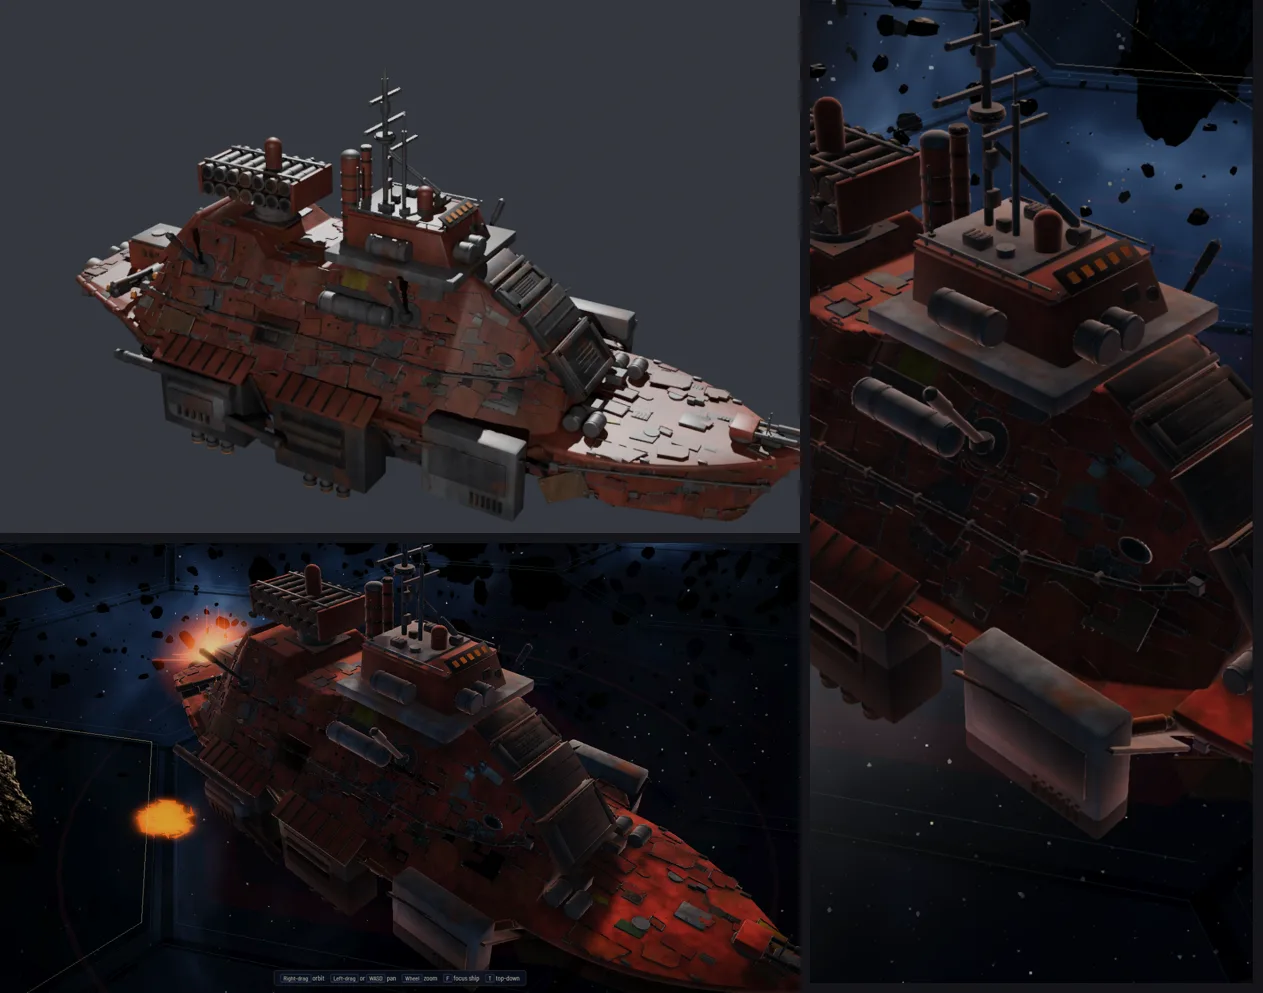
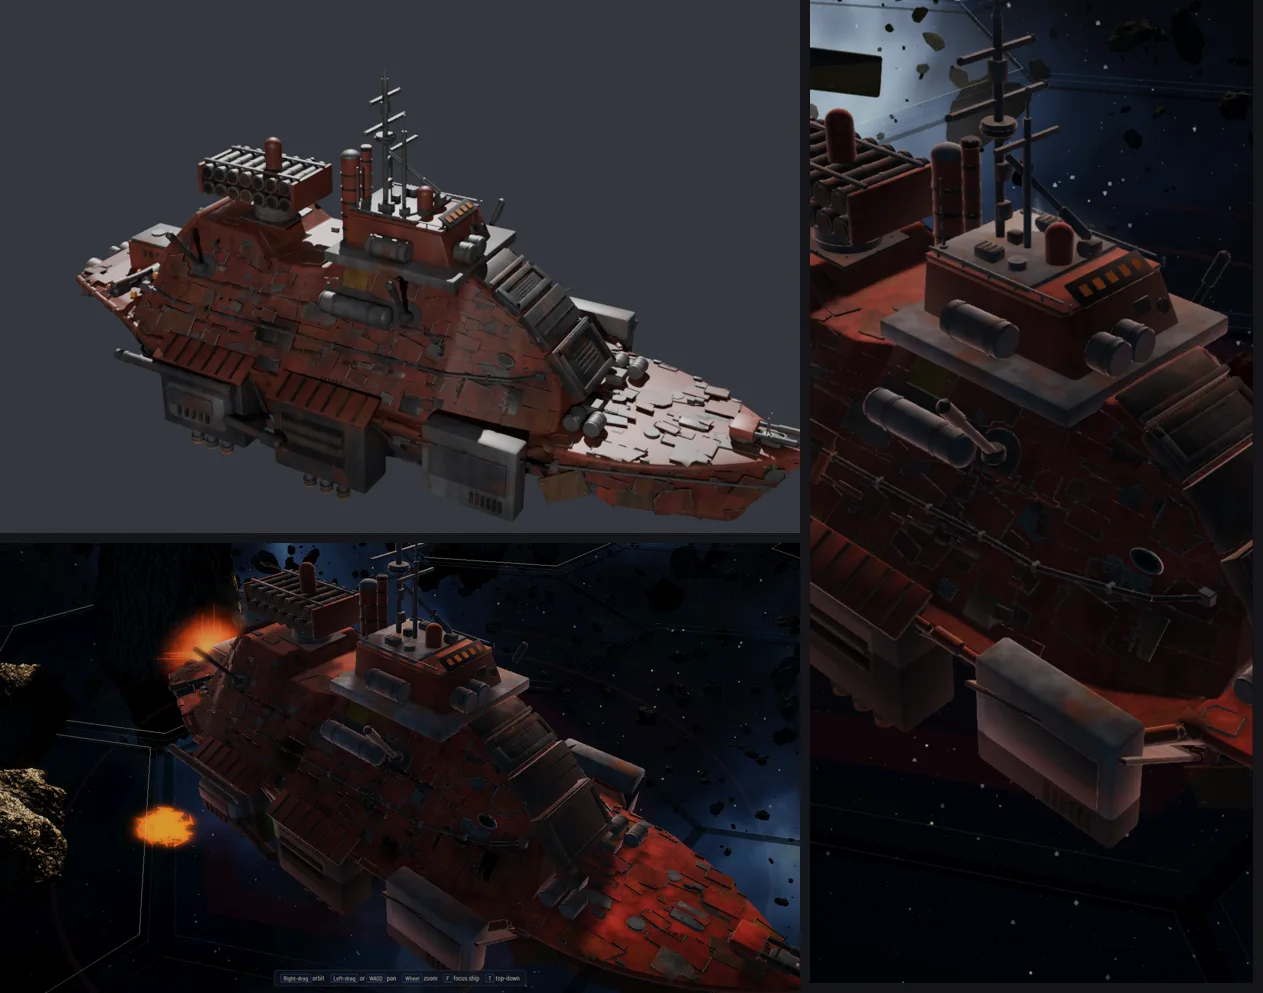
v14 sheet, docs: two-sided lighting finding, handoff status
Claude-Session: https://claude.ai/code/session_01RKPgCgjrvHpd4oYHZuELuv

diff --git a/HANDOFF.md b/HANDOFF.md
@@ -68,6 +68,13 @@
    their stored normals did the opposite. `faceOut()` in ships3d.js now flips the winding at load when it disagrees with the normals,
    for every AI hull and kit (`G.diagNoFaceOut=true` turns it off). All AI ships now light correctly: the Dominion went from near-black to
    lit silver (docs/ship_pipeline/c19_example/v13_winding_fix_dominion.webp). Station/object protos (objP) and craft hulls not checked yet.
+   v14 (Oct 22, owner picks: Corsair "mixed shapes", "finish + fine bumps", "heavy belly armour", finish fixes on all ships): detail_lib
+   plates are mixed shapes, scattered, bent onto the hull and trimmed at its edges, with varied edges (bead/rivets/plain); fewer, bigger
+   scorched belly slabs; uneven ledge/port/rivet rows (c19_kit); baked roughness/metal + fine normal maps for hull and kit (project_paint
+   FINISH, pixal_to_game FIN/KFIN, ships3d finMaps); finish read from the paint for painted hulls, worn-edge metal + sheen patches for the
+   baked hulls (gfx3d). AI hulls now light by stored normals (two-sided lighting had flipped them again). Full list of what the review
+   found: docs/ship_pipeline/GRAPHICS_REVIEW.md. Sheet: docs/ship_pipeline/c19_example/v14_pyre_barge.webp. Job: tools/pc/jobs/c19_14c.bat
+   (+ c19_14g.bat for game-only re-shots). Open: sides still busy, pale hulls blow out in full sun, real-GPU/Pixel check.
 1. Audits are in (Codex, Rey, Gemini). Claude's verified synthesis and picks: docs/ship_pipeline/AUDIT_SYNTHESIS.md. Gemini's drop-in code
    is NOT merged (built on false premises). Owner to answer the scope questions from Oct 22 before the next build.
 2. C19 verified fixes (list in AUDIT_SYNTHESIS.md), joint paint gain + no kit self-light, then the shared HullFx detail on hull and kit.

diff --git a/docs/ship_pipeline/GRAPHICS_REVIEW.md b/docs/ship_pipeline/GRAPHICS_REVIEW.md
@@ -14,6 +14,7 @@ quality and detail?" Found by in-game probes on the PC (closeshot `EVAL`), not b
 | 7 | Baked (non-painted) AI hulls: one even sheen. | Uniform plastic look on the other 34 ships. | Improved: worn raised edges read as metal, sheen breaks up in weathered patches (shader, uses each hull's existing curvature map). |
 | 8 | Brightness was tuned while hulls were lit from inside. | Now that light comes from the right side, pale hulls (Dominion) can blow out to white in direct sun. | Open: re-tune `directIntensity` / exposure on a real GPU. |
 | 9 | All screenshots so far come from SwiftShader (software rendering). | Says nothing about speed, anti-aliasing or shadow quality on a real GPU or the Pixel. | Open: real-GPU and Pixel check before more ships. |
+| 11 | Two-sided lighting on the AI hull materials flipped the normals on faces Babylon counts as back faces (cull tests hide the hull with either winding, so the winding alone cannot be trusted). | Hull lit from inside again once it had a normal map; plates looked black against it. | Fixed (v14g): AI hull and paint materials light by their stored normals (`twoSidedLighting=false`, `G.hull2s` to test); the finish maps no longer apply occlusion a second time (`G.finAO`). |
 | 10 | A folded plate sliver with "even thickness" blew out to a 2 m spike. | Broke framing and darkened shots. | Fixed: plain solidify plus a stray-part guard in `detail_lib.detail_pass`. |
 
 ## How to probe

diff --git a/docs/ship_pipeline/SHIP_QUEUE.md b/docs/ship_pipeline/SHIP_QUEUE.md
@@ -14,7 +14,7 @@ Steps: V = views approved, M = Pixal3D mesh, P = paint projected, K = hand-built
 | 1 | chorus | Carrier | B22_11 | not started |  |  |  |  |  |  |  |
 | 1 | chorus | Bio-titan | B16_23 | not started |  |  |  |  |  |  |  |
 | 1 | corsair | Carrier | C16s_23 | not started |  |  |  |  |  |  |  |
-| 1 | corsair | Battle-barge | C19_51 | v13d Oct 22: clean shell hull (owner OK'd shape), sponsons + front armour, weathered paint, detail_lib pass (plating, patches, pipes, vents, dents, Corsair jank), atlas gap fill, hull lighting fixed (winding); awaiting owner verdict | x | x | x | x | x |  | bow, rack, bridge, guns, side blocks, plates, thrusters, stern house, tanks rebuilt; big flat hull panels still AI |
+| 1 | corsair | Battle-barge | C19_51 | v13d Oct 22: clean shell hull (owner OK'd shape), sponsons + front armour, weathered paint, detail_lib pass (plating, patches, pipes, vents, dents, Corsair jank), atlas gap fill, hull lighting fixed; v14 (Oct 22): mixed-shape trimmed plating, belly slabs, uneven rows, baked finish maps; awaiting owner verdict | x | x | x | x | x |  | bow, rack, bridge, guns, side blocks, plates, thrusters, stern house, tanks rebuilt; big flat hull panels still AI |
 | 1 | deathless | Tomb-ark | D22_23 | not started |  |  |  |  |  |  |  |
 | 1 | hegemony | Battleship | H10_23 | not started |  |  |  |  |  |  |  |
 | 1 | hegemony | Super-dreadnought | H4_11 | not started |  |  |  |  |  |  |  |
